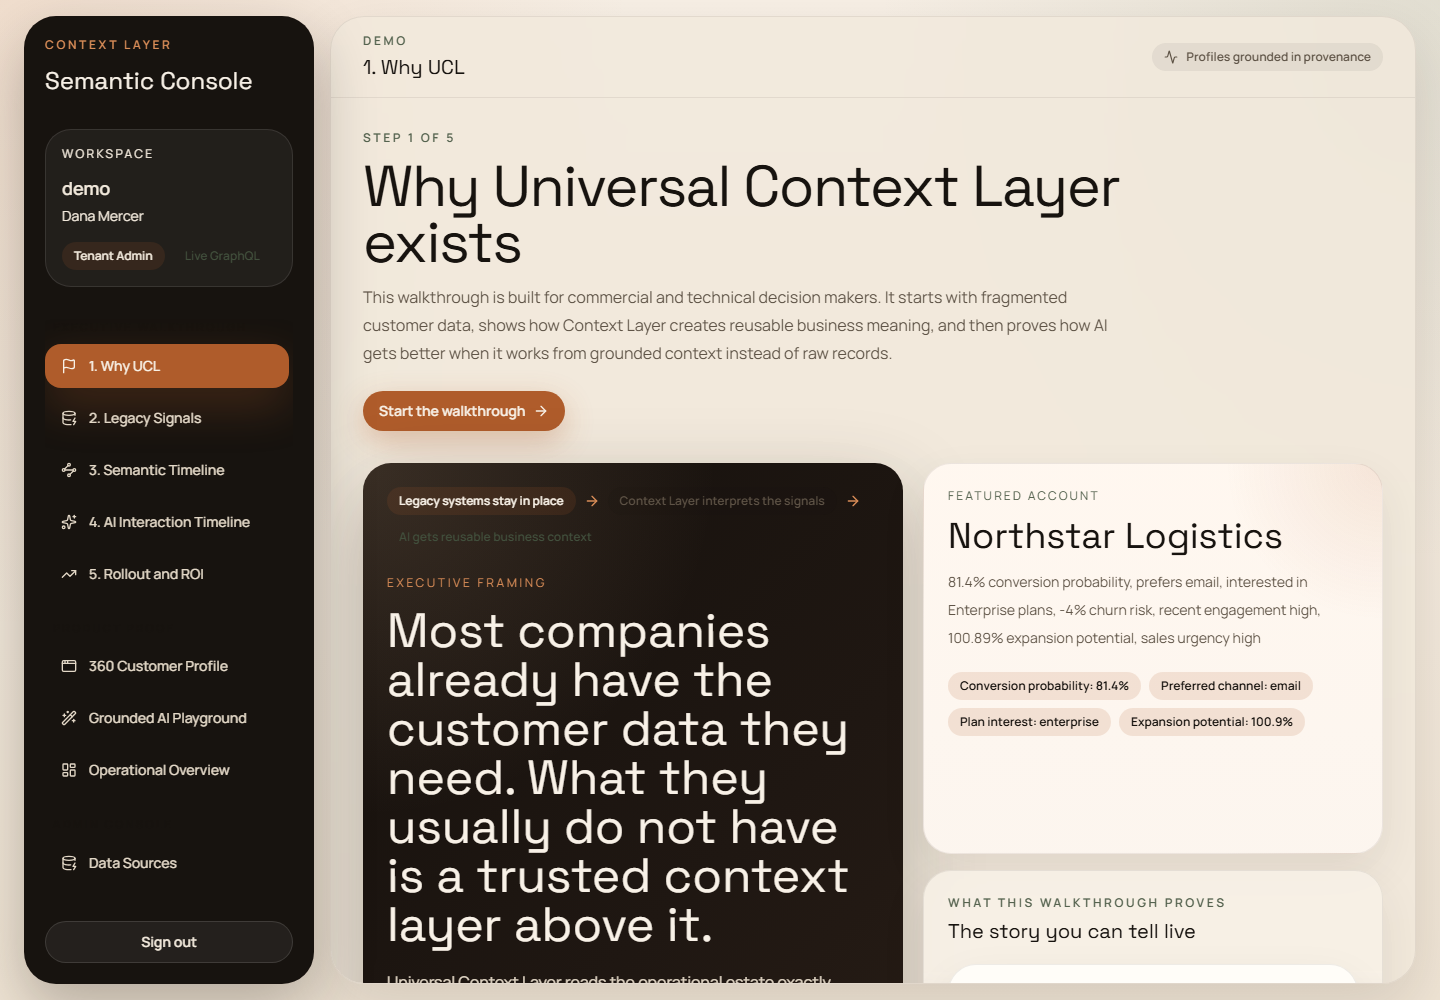
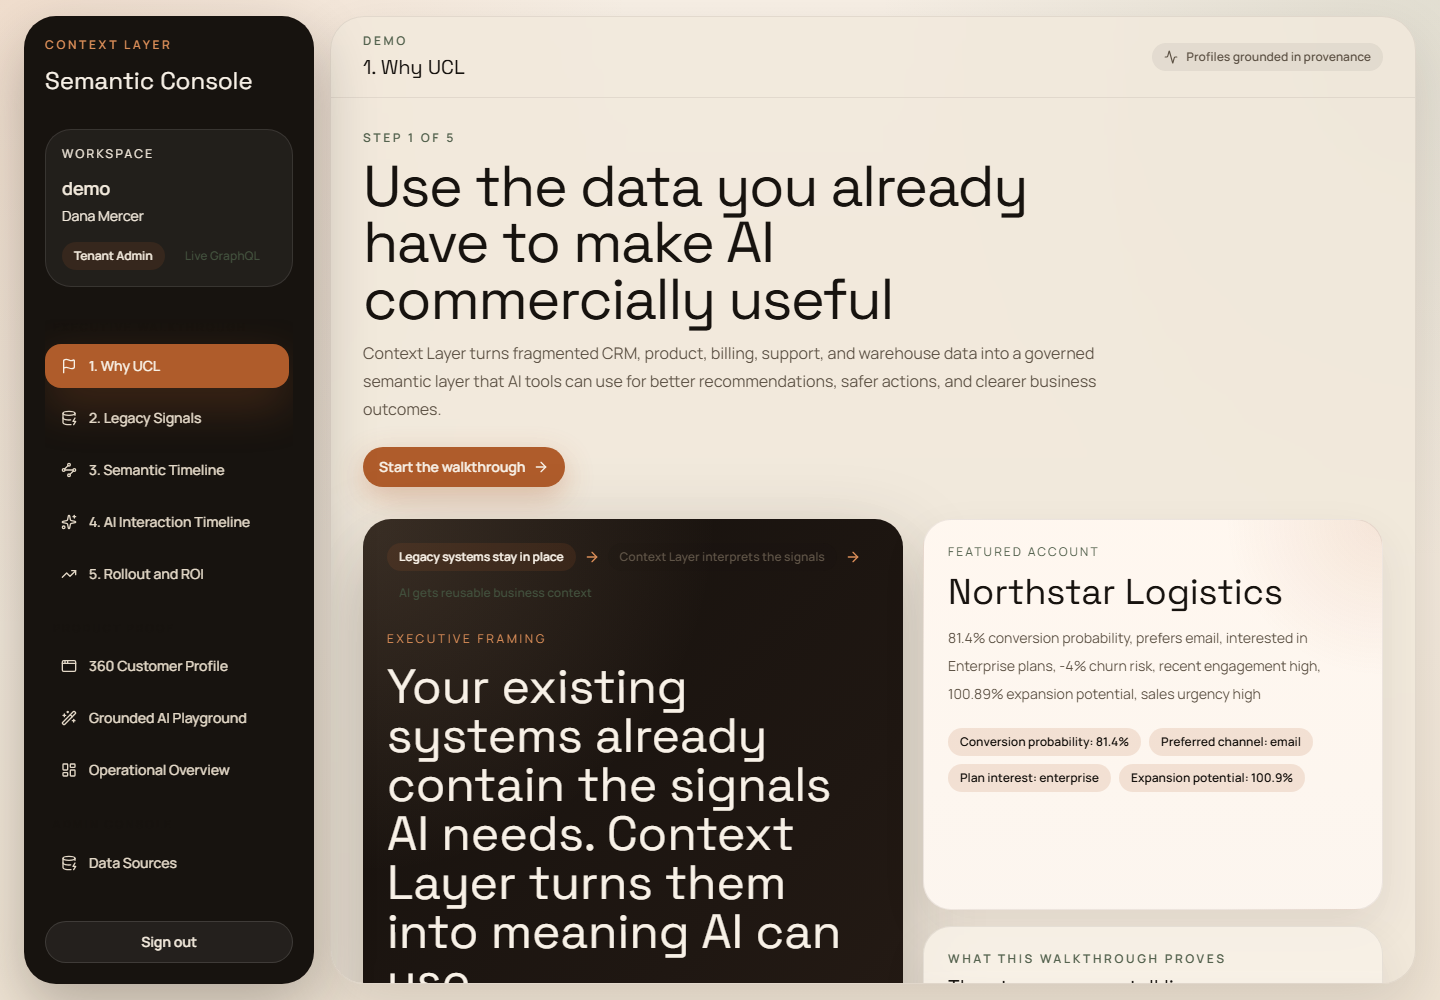
Clarify landing page product value

Changed region(s): [[0.25, 0.155, 0.7812, 0.992], [0.6562, 0.527, 0.9062, 0.806], [0.625, 0.837, 0.9688, 0.961]]

diff --git a/apps/web/src/features/demo/demo-mode-page.tsx b/apps/web/src/features/demo/demo-mode-page.tsx
@@ -20,8 +20,8 @@ export function DemoModePage() {
     <div className="grid gap-8">
       <PageHeader
         eyebrow="Step 1 of 5"
-        title="Why Universal Context Layer exists"
-        description="This walkthrough is built for commercial and technical decision makers. It starts with fragmented customer data, shows how Context Layer creates reusable business meaning, and then proves how AI gets better when it works from grounded context instead of raw records."
+        title="Use the data you already have to make AI commercially useful"
+        description="Context Layer turns fragmented CRM, product, billing, support, and warehouse data into a governed semantic layer that AI tools can use for better recommendations, safer actions, and clearer business outcomes."
         actions={
           <Link to={executiveStorySteps[1].to}>
             <Button>
@@ -46,8 +46,8 @@ export function DemoModePage() {
             <div className="grid gap-4">
               <p className="text-xs uppercase tracking-[0.22em] text-copper-300">Executive framing</p>
               <h2 className="max-w-4xl font-display text-5xl leading-[1.02] text-ivory-50">
-                Most companies already have the customer data they need.
-                What they usually do not have is a trusted context layer above it.
+                Your existing systems already contain the signals AI needs.
+                Context Layer turns them into meaning AI can use.
               </h2>
               <p className="max-w-3xl text-base leading-8 text-ivory-200">
                 Universal Context Layer reads the operational estate exactly where it already lives, converts

diff --git a/apps/web/src/features/auth/login-page.tsx b/apps/web/src/features/auth/login-page.tsx
@@ -51,10 +51,10 @@ export function LoginPage() {
             Context Layer
           </p>
           <h1 className="login-hero-title mt-4 max-w-[13ch] font-display text-[clamp(3rem,5.4vw,5.2rem)] leading-[0.96] tracking-tight text-ink-950">
-            Business-aware context for every agentic decision.
+            Turn your existing business data into AI-ready context.
           </h1>
           <p className="login-hero-copy mt-4 max-w-2xl text-base leading-7 text-ink-700">
-            Turn raw CRM records, warehouse metrics, product signals, and connector payloads into grounded semantic context that sales teams and AI agents can actually trust.
+            Context Layer reads CRM records, warehouse metrics, product signals, and support history, then creates governed semantic profiles that AI tools can cite, trust, and use.
           </p>
 
           <div className="login-compact-proof mt-5 flex flex-wrap gap-2">

diff --git a/README.md b/README.md
@@ -1,6 +1,6 @@
 # Context Layer
 
-Context Layer is a commercial demo of a universal semantic middleware layer for AI-enabled sales workflows.
+Context Layer turns existing CRM, product, billing, support, and warehouse data into AI-ready business context that product teams and sales teams can use safely.
 
 Release: `1.0.0`  
 License: [MIT](LICENSE)  